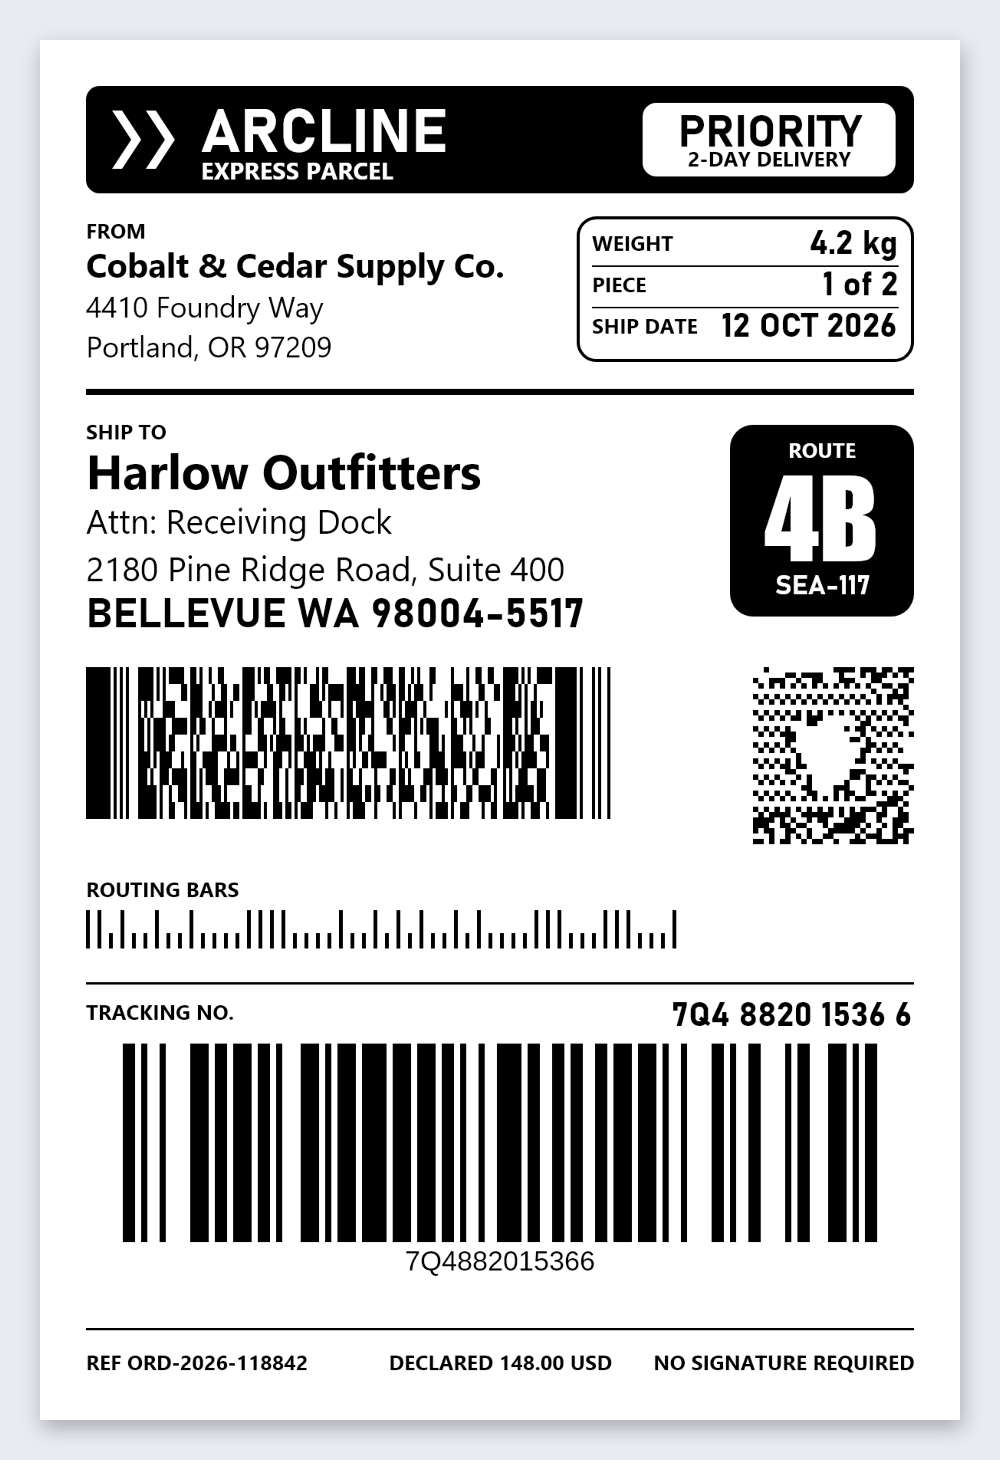
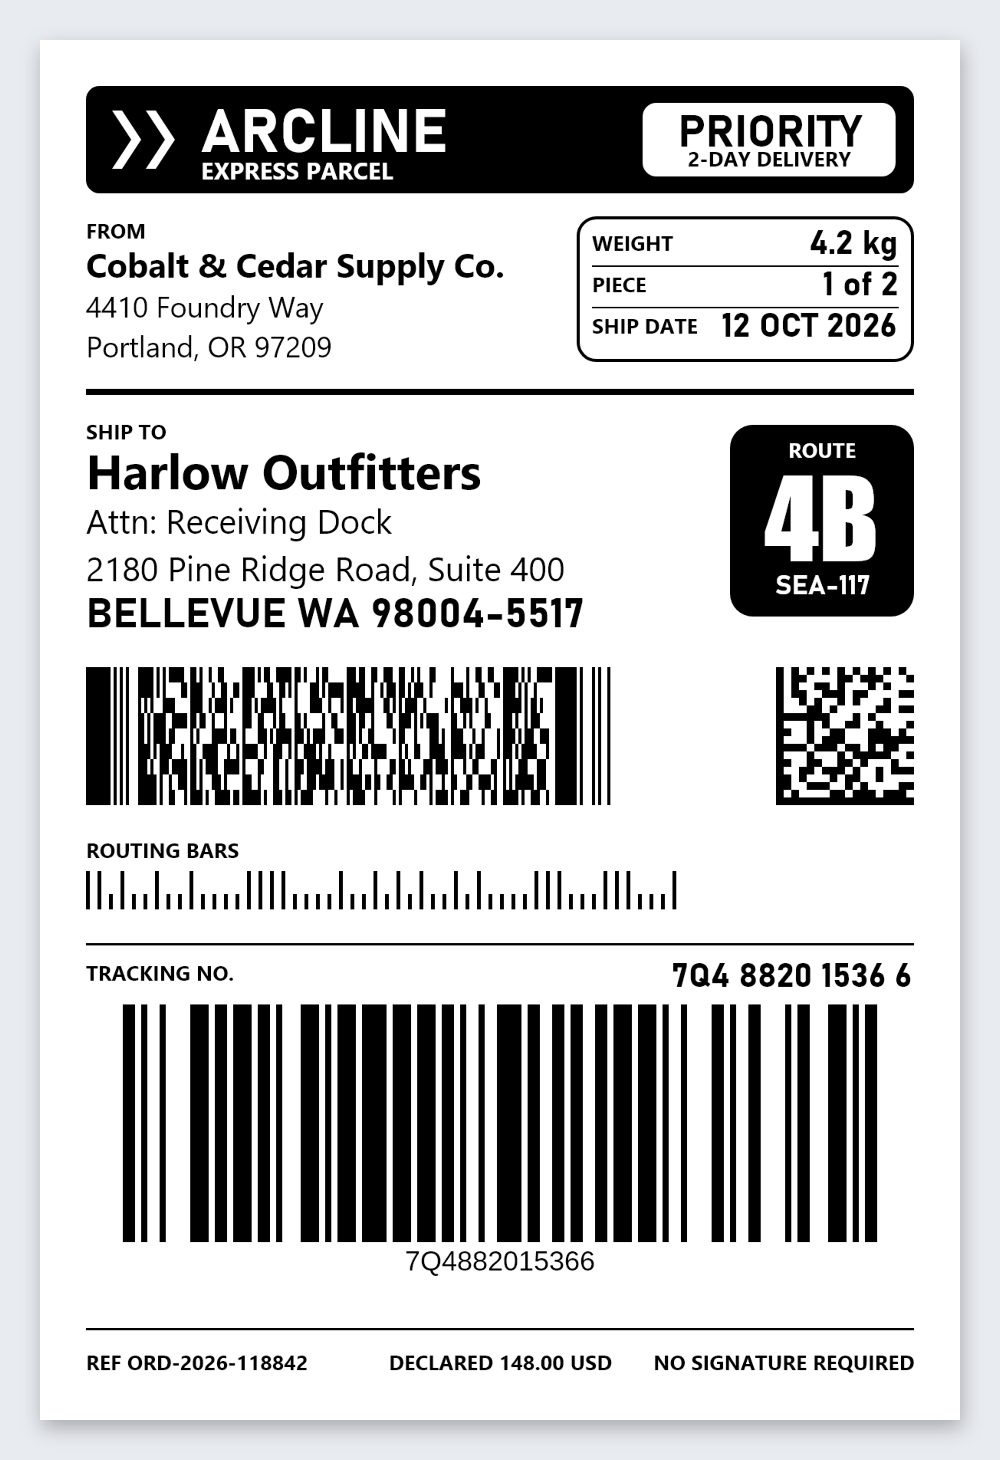
docs: keep MaxiCode as a placeholder, parcel label back to Data Matrix
Enabling the MaxiCode preview showed that the encoder draws square modules and no bullseye, so it is not a real MaxiCode picture; the catalog placeholder was right. Reverts that part and restores the parcel label.

Changed region(s): [[0.062, 0.4623, 0.93, 0.7397], [0.744, 0.4315, 0.93, 0.5856]]

diff --git a/tests/Rotula.Tests/Showcase/Label2Parcel.cs b/tests/Rotula.Tests/Showcase/Label2Parcel.cs
@@ -16,7 +16,7 @@ internal static partial class ShowcaseLabels
         string tracking = "7Q4882015366";
         string zip = "981045517";
         string carrierData = "ARCLINE|PRI2|98104-5517|US|7Q4882015366|1/2|4.2KG|20261012";
-        string dm = "001840981045517ARCLINE " + tracking;
+        string dm = "ARCLINE-" + tracking;
 
         // ---- header: the logo is two stacked chevrons (each one a "\" over a "/"), the service sits in a white tab
         b.Fill(m, m, inner, 140, round: 2);
@@ -63,10 +63,8 @@ internal static partial class ShowcaseLabels
 
         // ---- carrier data: PDF417 on the left, Data Matrix right-aligned, sharing one top edge
         int cy = dy + 316;
-        var pdf = b.Barcode(m, cy, BarcodeSymbology.Pdf417, carrierData, e => { e.ModuleWidth = 4; e.Height = 22; e.Columns = 5; e.Pdf417SecurityLevel = 3; });
-        // MaxiCode mode 2: class of service, country and postal code, then the secondary message. ZXing cannot read MaxiCode, so unlike the
-        // other symbols it is not decoded back; the encoder is a port of libzint's and has its own tests.
-        var mx = b.Barcode(0, cy, BarcodeSymbology.MaxiCode, dm, e => e.MaxiCodeMode = 2);
+        var pdf = b.Barcode(m, cy, BarcodeSymbology.Pdf417, carrierData, e => { e.ModuleWidth = 4; e.Height = 20; e.Columns = 5; e.Pdf417SecurityLevel = 3; });
+        var mx = b.Barcode(0, cy, BarcodeSymbology.DataMatrix, dm, e => e.ModuleSize = 10);
         var mxSize = LabelBuilder.BarsSize(mx);
         mx.X = m + inner - mxSize.Width;
         int rowEnd = cy + Math.Max(LabelBuilder.BarsSize(pdf).Height, mxSize.Height);

diff --git a/src/Rotula.Core/Barcodes/BarcodeSymbologyInfo.cs b/src/Rotula.Core/Barcodes/BarcodeSymbologyInfo.cs
@@ -261,7 +261,7 @@ public static class BarcodeCatalog
         E(BarcodeSymbology.MaxiCode, "MaxiCode", "^BD", BarcodeCategory.Matrix2D,
             new[] { BarcodeOption.MaxiCodeMode, BarcodeOption.MaxiCodeSymbolNumber, BarcodeOption.MaxiCodeSymbolTotal },
             "Modes 2 and 3: a structured carrier message (class of service, country, postal code, then the message); modes 4-6: any text", "Up to 93 characters", 1, 138, null, "001840123456789",
-            rotation: false),
+            preview: false, note: "The printer draws it; the designer shows a placeholder.", rotation: false),
         E(BarcodeSymbology.Tlc39, "TLC39", "^BT", BarcodeCategory.Stacked,
             new[] { W, R, H, BarcodeOption.Tlc39MicroModuleWidth, BarcodeOption.Tlc39MicroRowHeight },
             "A 6-digit ECI number, optionally followed by , and alphanumeric serial and additional data fields", "6 to 150 characters", 6, 150, null, "123456,ABCD12345678901234",

diff --git a/tests/Rotula.Tests/McpBarcodeBreadthTests.cs b/tests/Rotula.Tests/McpBarcodeBreadthTests.cs
@@ -46,8 +46,7 @@ public sealed class McpBarcodeBreadthTests : IDisposable
     {
         var all = _env.Label.ListSymbologies().Symbologies.ToDictionary(s => s.Name);
         Assert.Equal("exact", all["Code128"].Preview);
-        Assert.Equal("exact", all["MaxiCode"].Preview);
-        Assert.Contains("placeholder", all["Tlc39"].Preview);
+        Assert.Contains("placeholder", all["MaxiCode"].Preview);
         Assert.False(all["MaxiCode"].SupportsRotation);
         Assert.True(all["Aztec"].SupportsRotation);
         Assert.Equal("postal", all["Postnet"].Kind);

diff --git a/README.es.md b/README.es.md
@@ -182,7 +182,7 @@ Etiquetas reales, generadas con la exportación PNG de Rotula a partir de los ar
 <table>
 <tr>
 <td align="center" valign="top"><img src="docs/images/showcase/gs1-pallet-label.png" alt="Etiqueta de palé GS1-128 con códigos de SSCC, GTIN, lote y caducidad" width="440"><br><sub>Palé GS1-128: SSCC, GTIN, lote y fecha de caducidad.</sub></td>
-<td align="center" valign="top"><img src="docs/images/showcase/parcel-shipping-label.png" alt="Etiqueta de envío de paquete con MaxiCode, PDF417, barras POSTNET y un número de seguimiento Code 128" width="440"><br><sub>Paquete: MaxiCode, PDF417, barras POSTNET y Code 128.</sub></td>
+<td align="center" valign="top"><img src="docs/images/showcase/parcel-shipping-label.png" alt="Etiqueta de envío de paquete con PDF417, Data Matrix, barras POSTNET y un número de seguimiento Code 128" width="440"><br><sub>Paquete: PDF417, Data Matrix, barras POSTNET y Code 128.</sub></td>
 </tr>
 <tr>
 <td align="center" valign="top"><img src="docs/images/showcase/food-nutrition-label.png" alt="Etiqueta de producto alimentario con tabla nutricional, recuadro de alérgenos y EAN-13" width="440"><br><sub>Alimento: tabla nutricional, alérgenos y EAN-13.</sub></td>

diff --git a/README.md b/README.md
@@ -179,7 +179,7 @@ Real labels, rendered by Rotula's own PNG export from the files in [`docs/showca
 <table>
 <tr>
 <td align="center" valign="top"><img src="docs/images/showcase/gs1-pallet-label.png" alt="GS1-128 pallet label with SSCC, GTIN, batch and best-before barcodes" width="440"><br><sub>GS1-128 pallet label: SSCC, GTIN, batch and best-before date.</sub></td>
-<td align="center" valign="top"><img src="docs/images/showcase/parcel-shipping-label.png" alt="Parcel shipping label with MaxiCode, PDF417, POSTNET bars and a Code 128 tracking number" width="440"><br><sub>Parcel label: MaxiCode, PDF417, POSTNET bars, Code 128.</sub></td>
+<td align="center" valign="top"><img src="docs/images/showcase/parcel-shipping-label.png" alt="Parcel shipping label with PDF417, Data Matrix, POSTNET bars and a Code 128 tracking number" width="440"><br><sub>Parcel label: PDF417, Data Matrix, POSTNET bars, Code 128.</sub></td>
 </tr>
 <tr>
 <td align="center" valign="top"><img src="docs/images/showcase/food-nutrition-label.png" alt="Food product label with a nutrition panel, allergen box and EAN-13" width="440"><br><sub>Food label: nutrition panel, allergen box and EAN-13.</sub></td>

diff --git a/CHANGELOG.md b/CHANGELOG.md
@@ -12,7 +12,6 @@ and the project follows [Semantic Versioning](https://semver.org/spec/v2.0.0.htm
 
 ### Fixed
 - **Windows fonts that are named after a style now draw in that style.** "Arial Black", "Segoe UI Semibold", "Segoe UI Black", "Bahnschrift Condensed" and similar names used to be replaced by the default font in the preview, PNG/PDF export and print picture; they now resolve to their parent family at the weight and width the name says.
-- **MaxiCode is drawn in the preview and exports** instead of a "printer draws it" placeholder.
 
 ## [0.3.5] - 2026-10-12
 
